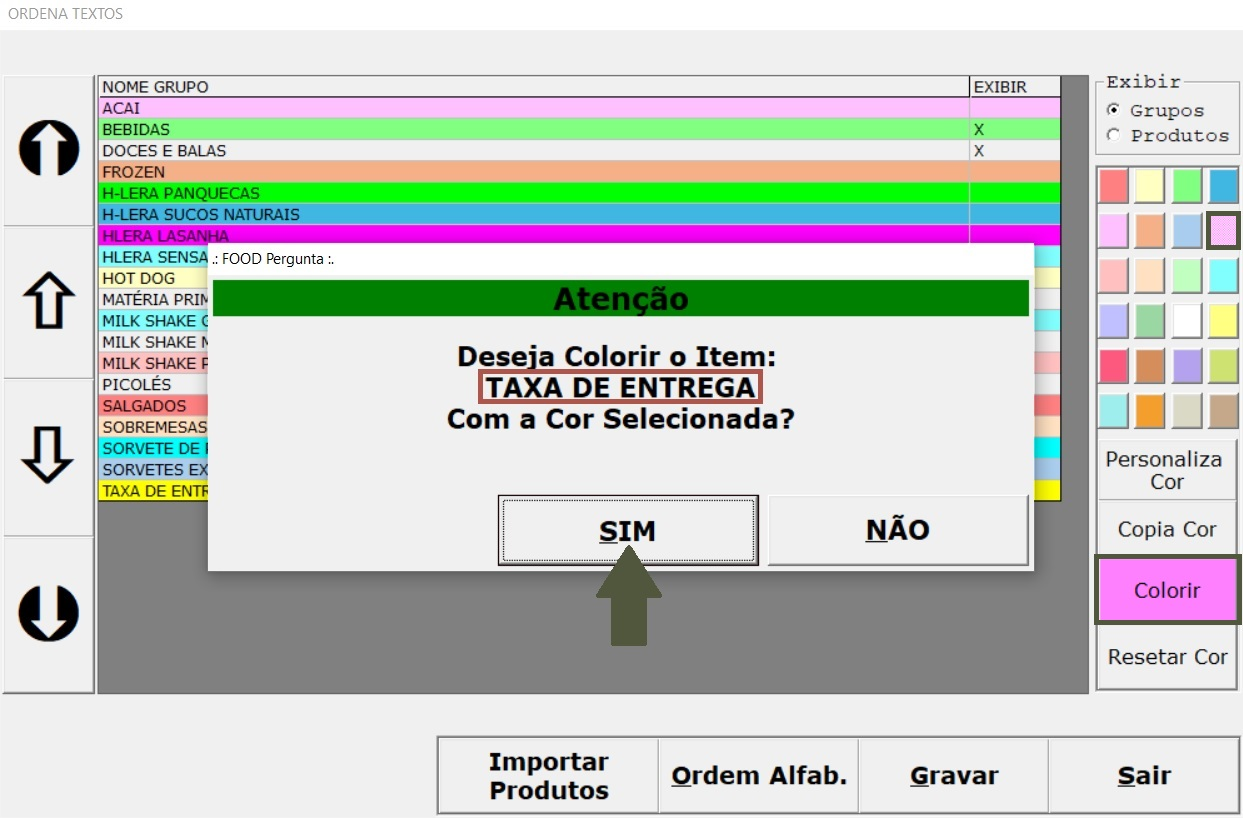
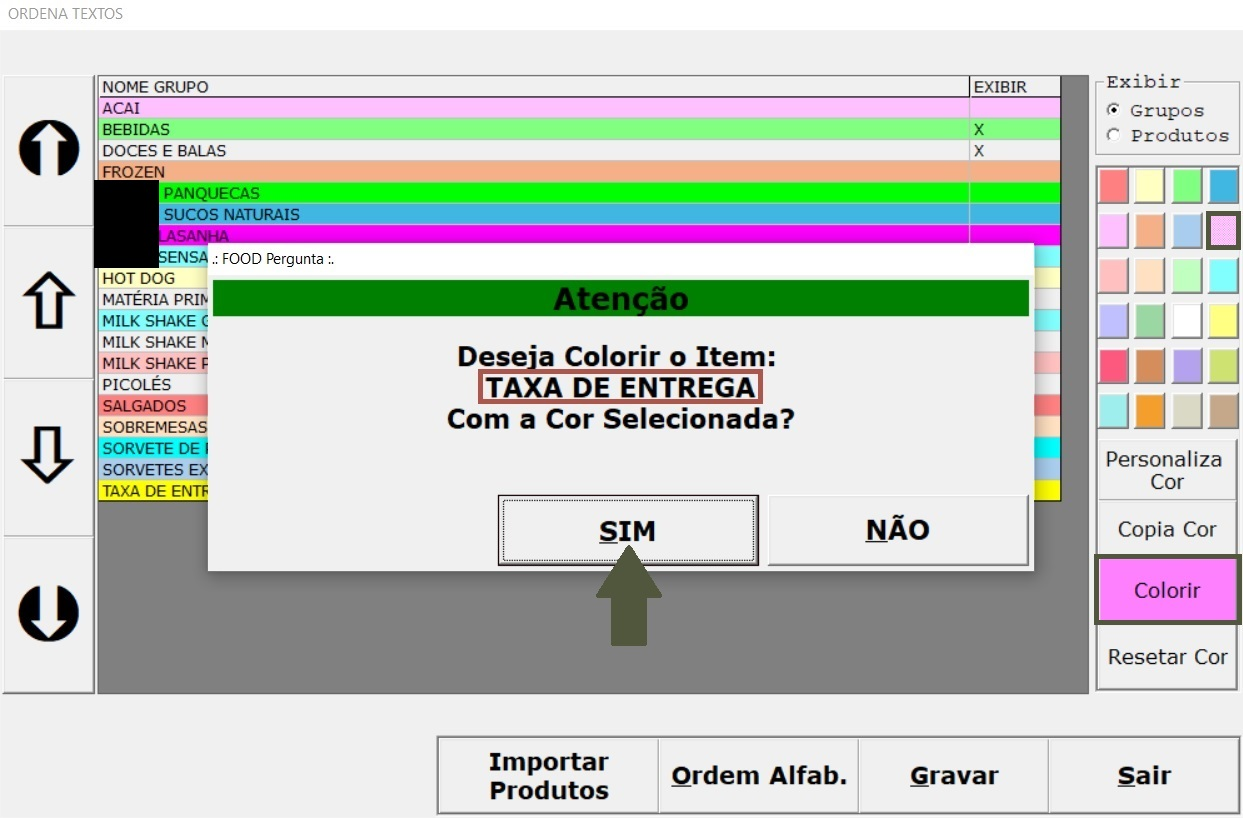
borrando imagens sensiveis

Changed region(s): [[0.0611, 0.2139, 0.1529, 0.3362]]

diff --git a/Adm/cadastro.html b/Adm/cadastro.html
@@ -1,0 +1,38 @@
+<!DOCTYPE html>
+<html lang="pt-br">
+<head>
+    <link rel="preconnect" href="https://fonts.googleapis.com">
+    <link rel="preconnect" href="https://fonts.gstatic.com" crossorigin>
+    <meta charset="UTF-8">
+    <link rel="shortcut icon" href="../assets/Logo Optimus globo.svg" type="image/x-icon">
+    <meta name="viewport" content="width=device-width, initial-scale=1.0">
+    <!-- Colocar aqui título da aba -->
+    <title>Cadastro</title>
+    <link rel="stylesheet" href="../style.css">
+<link href="https://fonts.googleapis.com/css2?family=Poppins:wght@400;700&display=swap" rel="stylesheet">
+</head>
+<body>
+    <div class="page">
+        <h1 class="header">Cadastro</h1>
+        <p>Ao iniciar o sistema você vai observar um menu com as seguintes opções:</p>
+            <img src="../Usuário/adm 1.jpg" alt=""/>
+            <p>A tela a seguir irá aparecer. Nela o backup irá rodar automaticamente.</p>
+            <img src="../Usuário/Cap 3.png" alt=""/>
+    
+            <div class="hero">
+            
+                <img src="./assets/Logo Optimus globo.svg" alt=""/>
+                
+                <p center>Como sei que deu certo?</p>
+            
+                <img class="" src="./assets/Logo Optimus globo.svg" alt=""/>
+            
+            </div>
+
+        <p>Entre na pasta Backups e verifique qual a data da última atualização. Se preferir clique 
+            em data (flecha vermelha)</p>
+        <img src="../Usuário/Cap 4.png" alt=""/>
+        <img src="../Usuário/Cap 4.png" alt=""/>
+    </div>
+</body>
+</html>

diff --git a/Adm/verificando_sistema.html b/Adm/verificando_sistema.html
@@ -1,0 +1,27 @@
+<!DOCTYPE html>
+<html lang="pt-br">
+<head>
+    <link rel="preconnect" href="https://fonts.googleapis.com">
+    <link rel="preconnect" href="https://fonts.gstatic.com" crossorigin>
+    <meta charset="UTF-8">
+    <link rel="shortcut icon" href="../assets/Logo Optimus globo.svg" type="image/x-icon">
+    <meta name="viewport" content="width=device-width, initial-scale=1.0">
+    <!-- Colocar aqui título da aba -->
+    <title>Verificando Sistema</title>
+    <link rel="stylesheet" href="../style.css">
+<link href="https://fonts.googleapis.com/css2?family=Poppins:wght@400;700&display=swap" rel="stylesheet">
+</head>
+<body>
+    <div class="page">
+        <h1 class="header">Verificando Sistema</h1>
+        <p>Para ver se o aplicativo está em funcionamento o ícone deve aparecer no local da flecha vermelha.
+        <br>Na flecha verde temos a pasta inicializar, caso você não consiga ver o programa 
+            é só clicar aqui que os itens estarão na pasta. Clique no local da flecha verde.</p>
+        <img src="../Usuário/cap app.jpg" alt=""/>
+        <p>Os três arquivos abaixo irão aparecer (veja or etângulo vermelho).</p>
+        <img src="../Usuário/Cap 2.png" alt=""/>
+        <p>A função de cada item destacado no retângulo vermelho na imagem acima e está descrita abaixo:</p>
+        <img src="../Usuário/tabela 3.jpg" alt=""/>
+    </div>
+</body>
+</html>

diff --git a/Adm/sumario_adm.html b/Adm/sumario_adm.html
@@ -1,0 +1,37 @@
+<!DOCTYPE html>
+<html lang="pt-br">
+    <head>
+        <link rel="preconnect" href="https://fonts.googleapis.com">
+        <link rel="preconnect" href="https://fonts.gstatic.com" crossorigin>
+        <meta charset="UTF-8">
+    <link rel="shortcut icon" href="../assets/Logo Optimus globo.svg" type="image/x-icon">
+        <meta http-equiv="X-UA-Compatible" content="IE=edge">
+        <meta name="viewport" content="width=device-width, initial-scale=1.0">
+        <!-- Colocar aqui título da aba -->
+        <title>SUMÁRIO</title>
+        <link rel="stylesheet" href="./style.css">
+    <link href="https://fonts.googleapis.com/css2?family=Poppins:wght@400;700&display=swap" rel="stylesheet">
+    </head>
+<body>
+        <div class="page">
+            <h1 class="header">SUMÁRIO SUPORTE</h1>
+        <ol>
+            <a href="../Suporte/backup.html">
+                <li>
+                    Rodando o backup
+                </li>
+            </a>
+            <a href="../Suporte/verificando_sistema.html">
+                <li>
+                    Verificando Sistema
+                </li>
+            </a>
+            <a href="../Suporte/integracao_telluria.html">
+                <li>
+                    Integração com a Telluria
+                </li>
+            </a>
+        </ol>
+        </div>
+</body>
+</html>

diff --git a/Suporte/sumario_suporte.html b/Suporte/sumario_suporte.html
@@ -1,0 +1,37 @@
+<!DOCTYPE html>
+<html lang="pt-br">
+    <head>
+        <link rel="preconnect" href="https://fonts.googleapis.com">
+        <link rel="preconnect" href="https://fonts.gstatic.com" crossorigin>
+        <meta charset="UTF-8">
+    <link rel="shortcut icon" href="../assets/Logo Optimus globo.svg" type="image/x-icon">
+        <meta http-equiv="X-UA-Compatible" content="IE=edge">
+        <meta name="viewport" content="width=device-width, initial-scale=1.0">
+        <!-- Colocar aqui título da aba -->
+        <title>SUMÁRIO</title>
+        <link rel="stylesheet" href="./style.css">
+    <link href="https://fonts.googleapis.com/css2?family=Poppins:wght@400;700&display=swap" rel="stylesheet">
+    </head>
+<body>
+        <div class="page">
+            <h1 class="header">SUMÁRIO SUPORTE</h1>
+        <ol>
+            <a href="../Suporte/backup.html">
+                <li>
+                    Rodando o backup
+                </li>
+            </a>
+            <a href="../Suporte/verificando_sistema.html">
+                <li>
+                    Verificando Sistema
+                </li>
+            </a>
+            <a href="../Suporte/integracao_telluria.html">
+                <li>
+                    Integração com a Telluria
+                </li>
+            </a>
+        </ol>
+        </div>
+</body>
+</html>

diff --git a/Adm/grupos_de_despesas.html b/Adm/grupos_de_despesas.html
@@ -1,0 +1,27 @@
+<!DOCTYPE html>
+<html lang="pt-br">
+<head>
+    <link rel="preconnect" href="https://fonts.googleapis.com">
+    <link rel="preconnect" href="https://fonts.gstatic.com" crossorigin>
+    <meta charset="UTF-8">
+    <link rel="shortcut icon" href="../assets/Logo Optimus globo.svg" type="image/x-icon">
+    <meta name="viewport" content="width=device-width, initial-scale=1.0">
+    <!-- Colocar aqui título da aba -->
+    <title>GRUPOS DE DESPESAS</title>
+    <link rel="stylesheet" href="../style.css">
+<link href="https://fonts.googleapis.com/css2?family=Poppins:wght@400;700&display=swap" rel="stylesheet">
+</head>
+<body>
+    <div class="page">
+        <h1 class="header">GRUPOS DE DESPESAS</h1>
+        <p>Entre em: Disco Local (C:) -> Aplicativos 
+        <br>Agora localize o arquivo backup2 (flecha e rentângulo vermelhos)</p>
+        <img src="../Usuário/cap 25.jpg" alt=""/>
+        <p>A tela a seguir irá aparecer. Nela o backup irá rodar automaticamente.</p>
+        <img src="../Usuário/Cap 3.png" alt=""/>
+        <p>A tela a seguir irá abrir todas as opções de pagamento: PIX, DINHEIRO, CRÉDITO e DÉBITO.
+            Clique na forma de pagamento e escolhida e aperte ENTER.</p>
+        <img src="../Usuário/Cap 4.png" alt=""/>
+    </div>
+</body>
+</html>

diff --git a/Item 3/3aIV.html b/Item 3/3aIV.html
@@ -24,7 +24,7 @@
         <p>Confira se o produto que você deseja cancelar é o que está descrito na mensagem (SPRITE MINI LATA na última linha da imagem acima), se sim, clique em “SIM”, do contrário, clique em “NÃO”.
         <br>Após o cancelamento a tela deve estar sem o produto cancelado na descrição:</p>
         <img src="../Usuário/tela 39.jpg" alt=""/>
-        <p>Esse caminho leva a comanda do cliente, para continuar veja o item <a href=".3b.html">Inserindo os dados de um cliente novo na compra</a></p>
+        <p>Esse caminho leva a comanda do cliente, para continuar veja o item <a href="./3b.html">Inserindo os dados de um cliente novo na compra</a></p>
         <div class="nav">
             <a href="./3aIII.html">Anterior</a>
             <a href="./3b.html">Próximo</a>

diff --git a/Item 3/3c.html b/Item 3/3c.html
@@ -19,7 +19,7 @@
             <img src="../assets/Logo Optimus globo.svg" alt=""/>
             
             <p>Não é obrigatório cadastrar novos clientes dessa maneira, você pode fazer como no 
-                item <a href=".3b.html">Inserindo os dados de um cliente novo na compra</a> 
+                item <a href="./3b.html">Inserindo os dados de um cliente novo na compra</a> 
                 e preencher o nome, o telefone e se for entrega o endereço.
                 Recomendamos que você faça o cadastro para ter controle dos pedidos dos seus clientes.</p>
         

diff --git a/Item 9/9ccXVIvii.html b/Item 9/9ccXVIvii.html
@@ -20,7 +20,7 @@
         <p>A cor copiada deve aparecer no botão “Colorir” (retângulo azul):</p>
         <img src="../Usuário/tela 382.jpg" alt=""/>
         <p>Agora você pode colorir um dos grupos/produtos da lista seguindo as instruções do 
-            item <a href="./9ccXVvi.html">Colorir</a>.</p>
+            item <a href="./9ccXVIvi.html">Colorir</a>.</p>
         <div class="nav">
             <a href="./9ccXVIvi.html">Anterior</a>
             <a href="./9ccXVIviii.html">Próximo</a>
